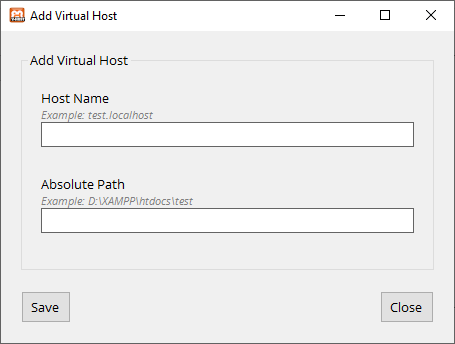
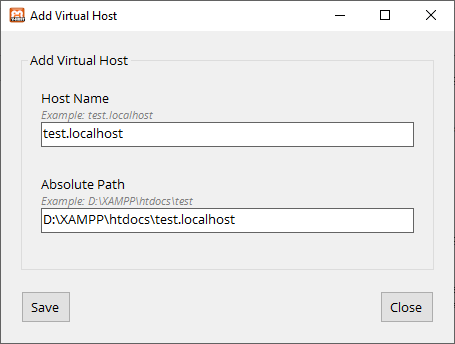
feat: determine invalid hosts

Changed region(s): [[0.0923, 0.6105, 0.5231, 0.6686], [0.0923, 0.3779, 0.2769, 0.407]]

diff --git a/README.md b/README.md
@@ -13,9 +13,10 @@ If you are experiencing any issues please let me know, by creating an [issue](ht
     - Delete Virtual Hosts
 - Automation of
     - creating backups
-    - finding httpd-vhosts.conf (manual input/override possible)
+    - finding XAMPP and httpd-vhosts.conf (manual input/override possible)
 - Version checker / updater
 - Restore backups
+- Determine invalid hosts
 
 ## Requirements
 - XAMPP
@@ -39,5 +40,4 @@ If you are experiencing any issues please let me know, by creating an [issue](ht
 
 ## Roadmap
 The following things are planned for the future:
-- Determine invalid hosts
 - Check and prevent duplicate entries
